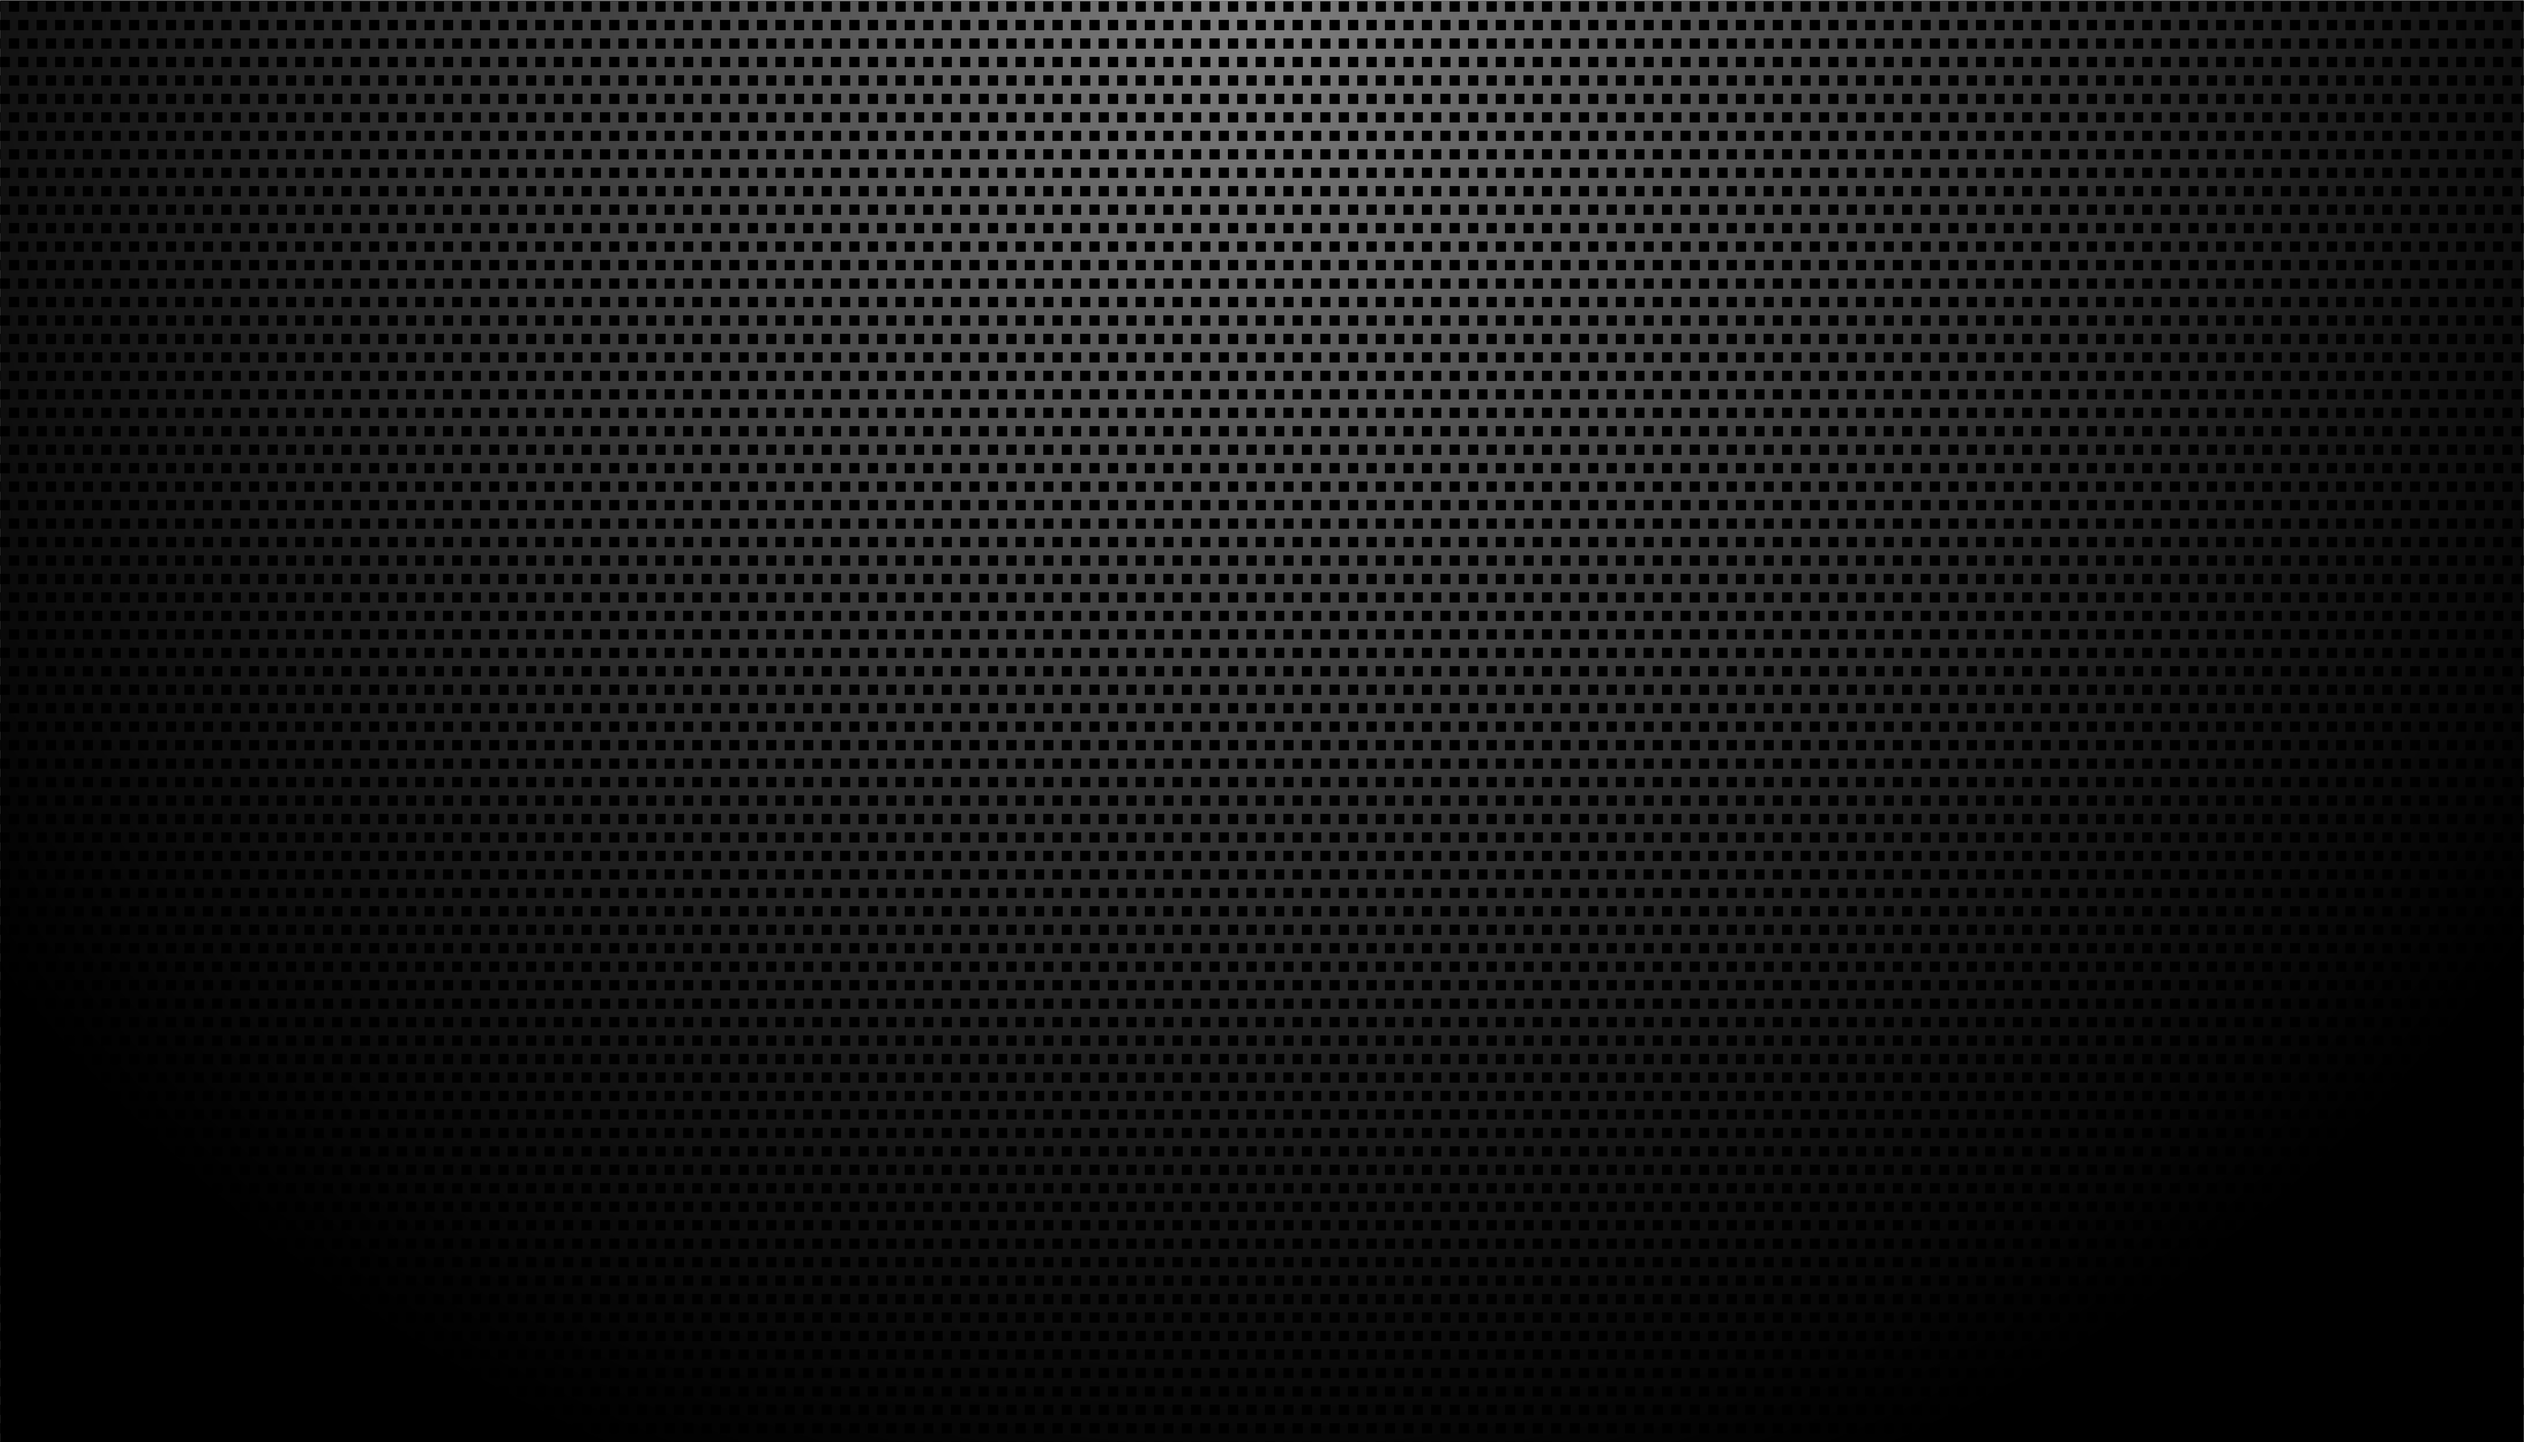
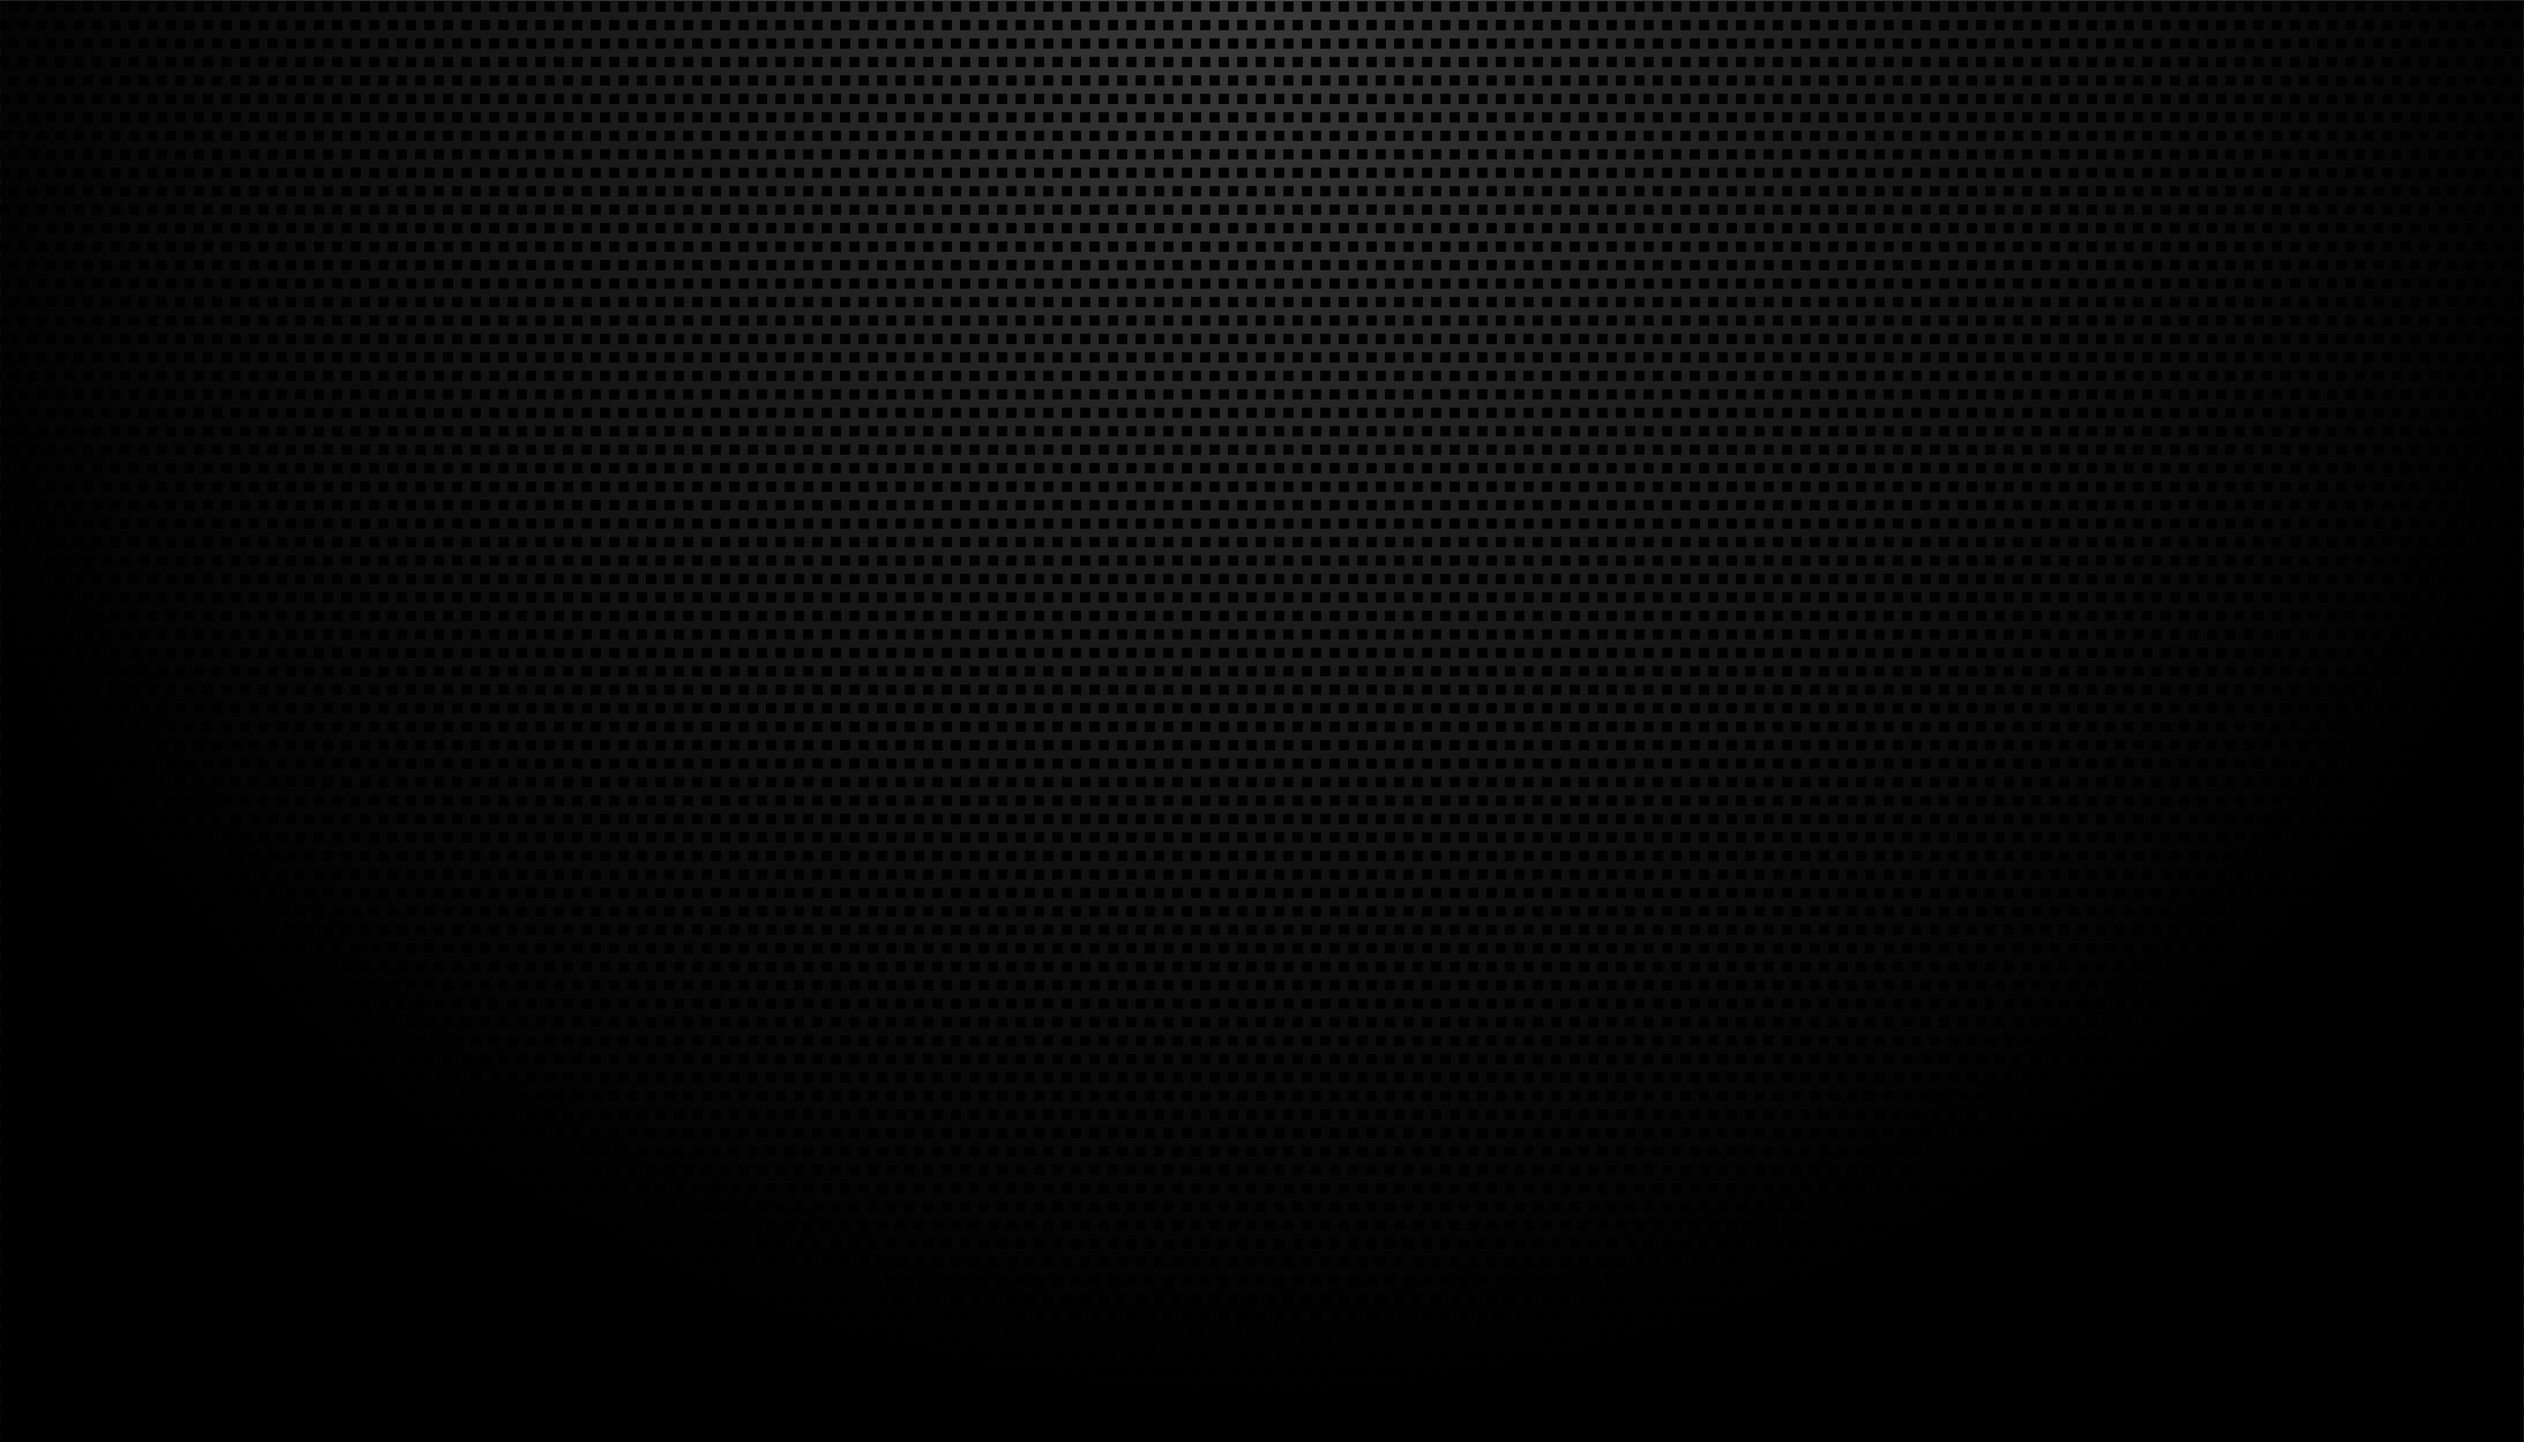
background

Changed region(s): [[0.0934, 0.0, 0.903, 0.7186]]

diff --git a/index.html b/index.html
@@ -40,7 +40,7 @@
 
 <div class="wrapper">
 
-<div class="coming-soon-effects scrollbar" style="background: black;">
+<div class="coming-soon-effects scrollbar" style="background: url('demo-specialty-pages/waves/images/23627.jpg') repeat;">
 
 
 <!--=================================
@@ -59,7 +59,7 @@
   <div class="container">
     <div class="row">
       <div class="logo text-center mb-30 mt-30 pos-r">
-        <a href="index-01.html"><img class="col-8 col-md-2" id="logo_img" src="images/logo-06.png" alt="logo"> </a>
+        <a href="index.html"><img class="col-8 col-md-2" id="logo_img" src="images/logo-06.png" alt="logo"> </a>
       </div>
     </div> 
   </div>
